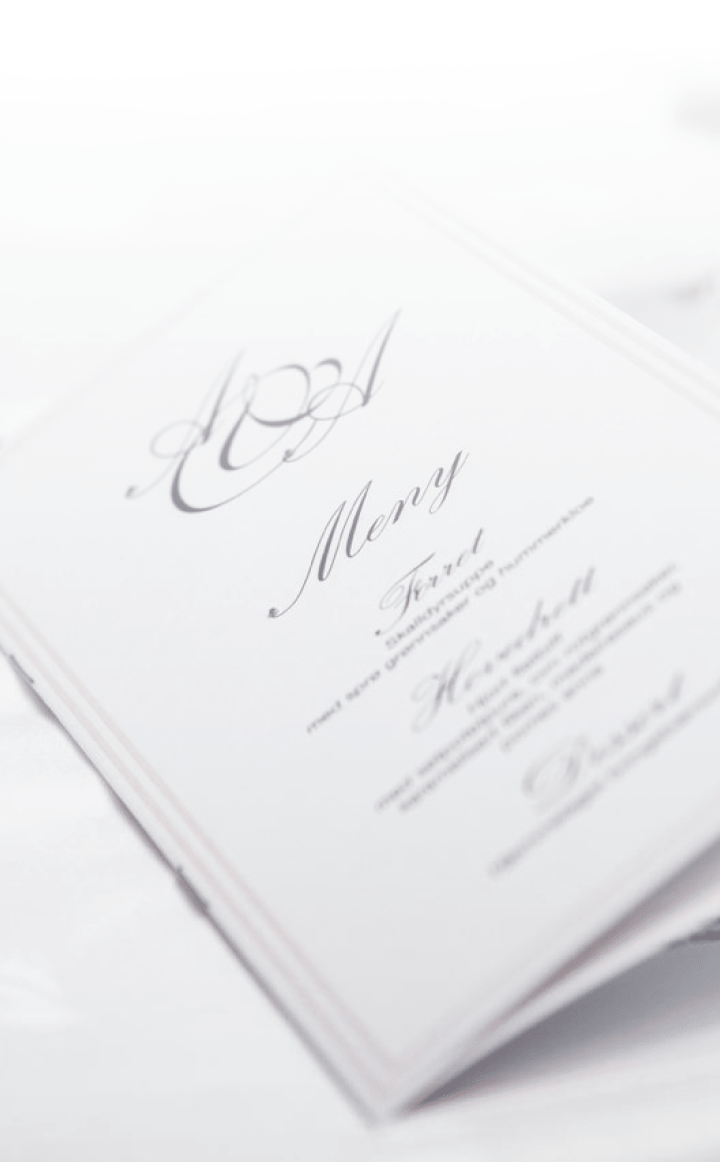
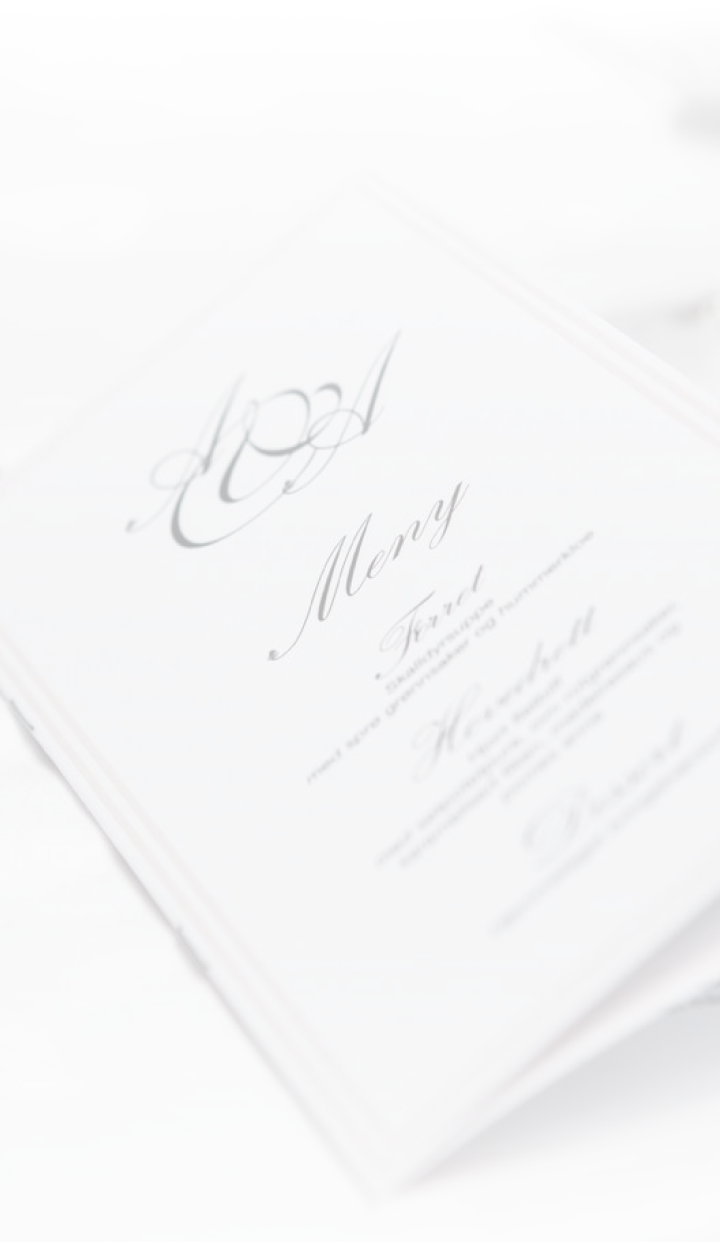
39-FF fixed qrcode present / turn on menu info google map

diff --git a/src/client/ui/modules/Restaurant/Information/index.js b/src/client/ui/modules/Restaurant/Information/index.js
@@ -45,7 +45,7 @@ const Information = memo(() => {
       name,
       key,
       address,
-      // geo,
+      geojson,
       phone,
       avg_price,
       cuisine,
@@ -97,6 +97,12 @@ const Information = memo(() => {
   const getImage = async (uuid) => {
     const img = await loadFile(`${getUrl()}/static/restaurants/photos/${uuid}.png`);
     return img;
+  };
+
+  const getCoords = () => {
+    if (!geojson) return;
+    const [lat, lng] = geojson.geometry.coordinates;
+    return { lat, lng };
   };
 
   const hangleChangSlide = (direction) => {
@@ -201,10 +207,10 @@ const Information = memo(() => {
               </Address>
             </AddressTitle>
             <MapStyled
-              initialCenter={{ lat: 37.778519, lng: -122.405640 }}
+              initialCenter={getCoords()}
               zoom={15}
             >
-              <Marker position={{ lat: 37.778519, lng: -122.405640 }} />
+              <Marker position={getCoords()} />
             </MapStyled>
           </AddressContainer>
         </AddessWrapper>

diff --git a/src/client/ui/modules/Present/Main/index.js b/src/client/ui/modules/Present/Main/index.js
@@ -226,7 +226,7 @@ const Main = () => {
             <QRCodeTitle>
               {t('present.main.first.col3.title')}  
             </QRCodeTitle>
-            <QRCode size={178} value={`${process.env.HOST}/restaurant/las-cuevas`} />
+            <QRCode size={178} value={`${process.env.HOST}/restaurant/las-ceuvas/information`} />
             <QRCodeLanguage>
               {t('present.main.first.col3.language')}  
             </QRCodeLanguage>
